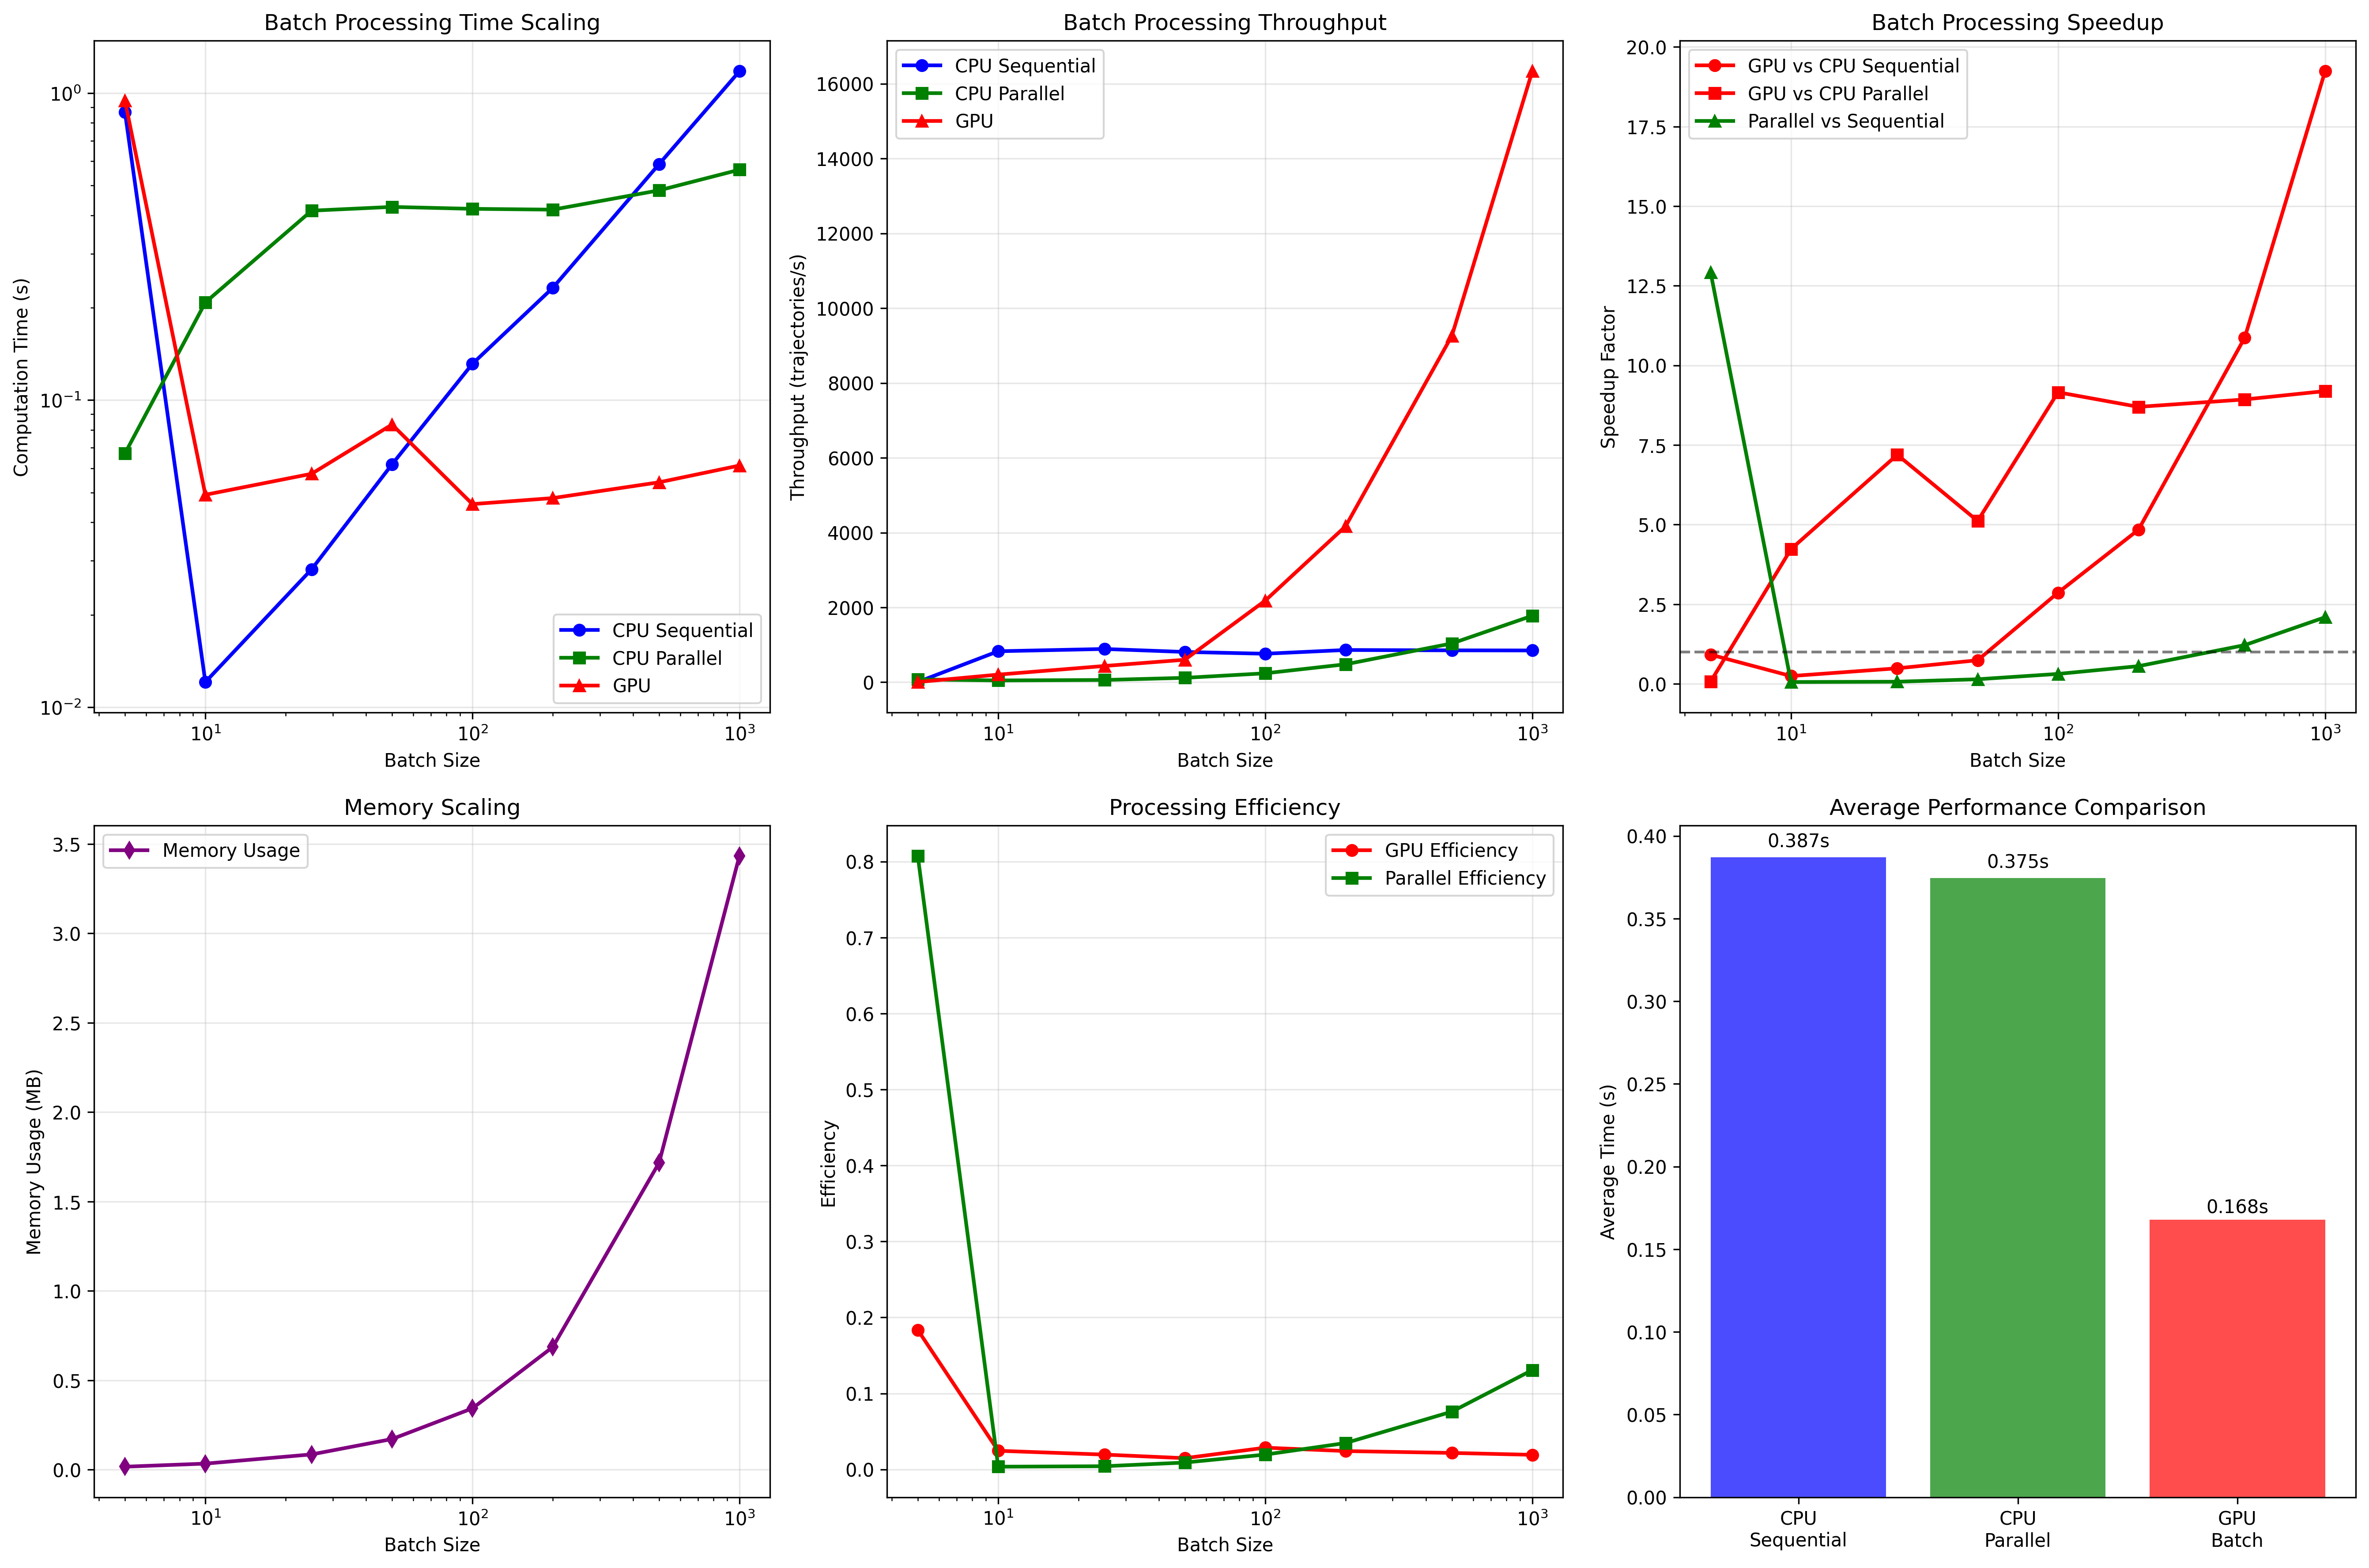
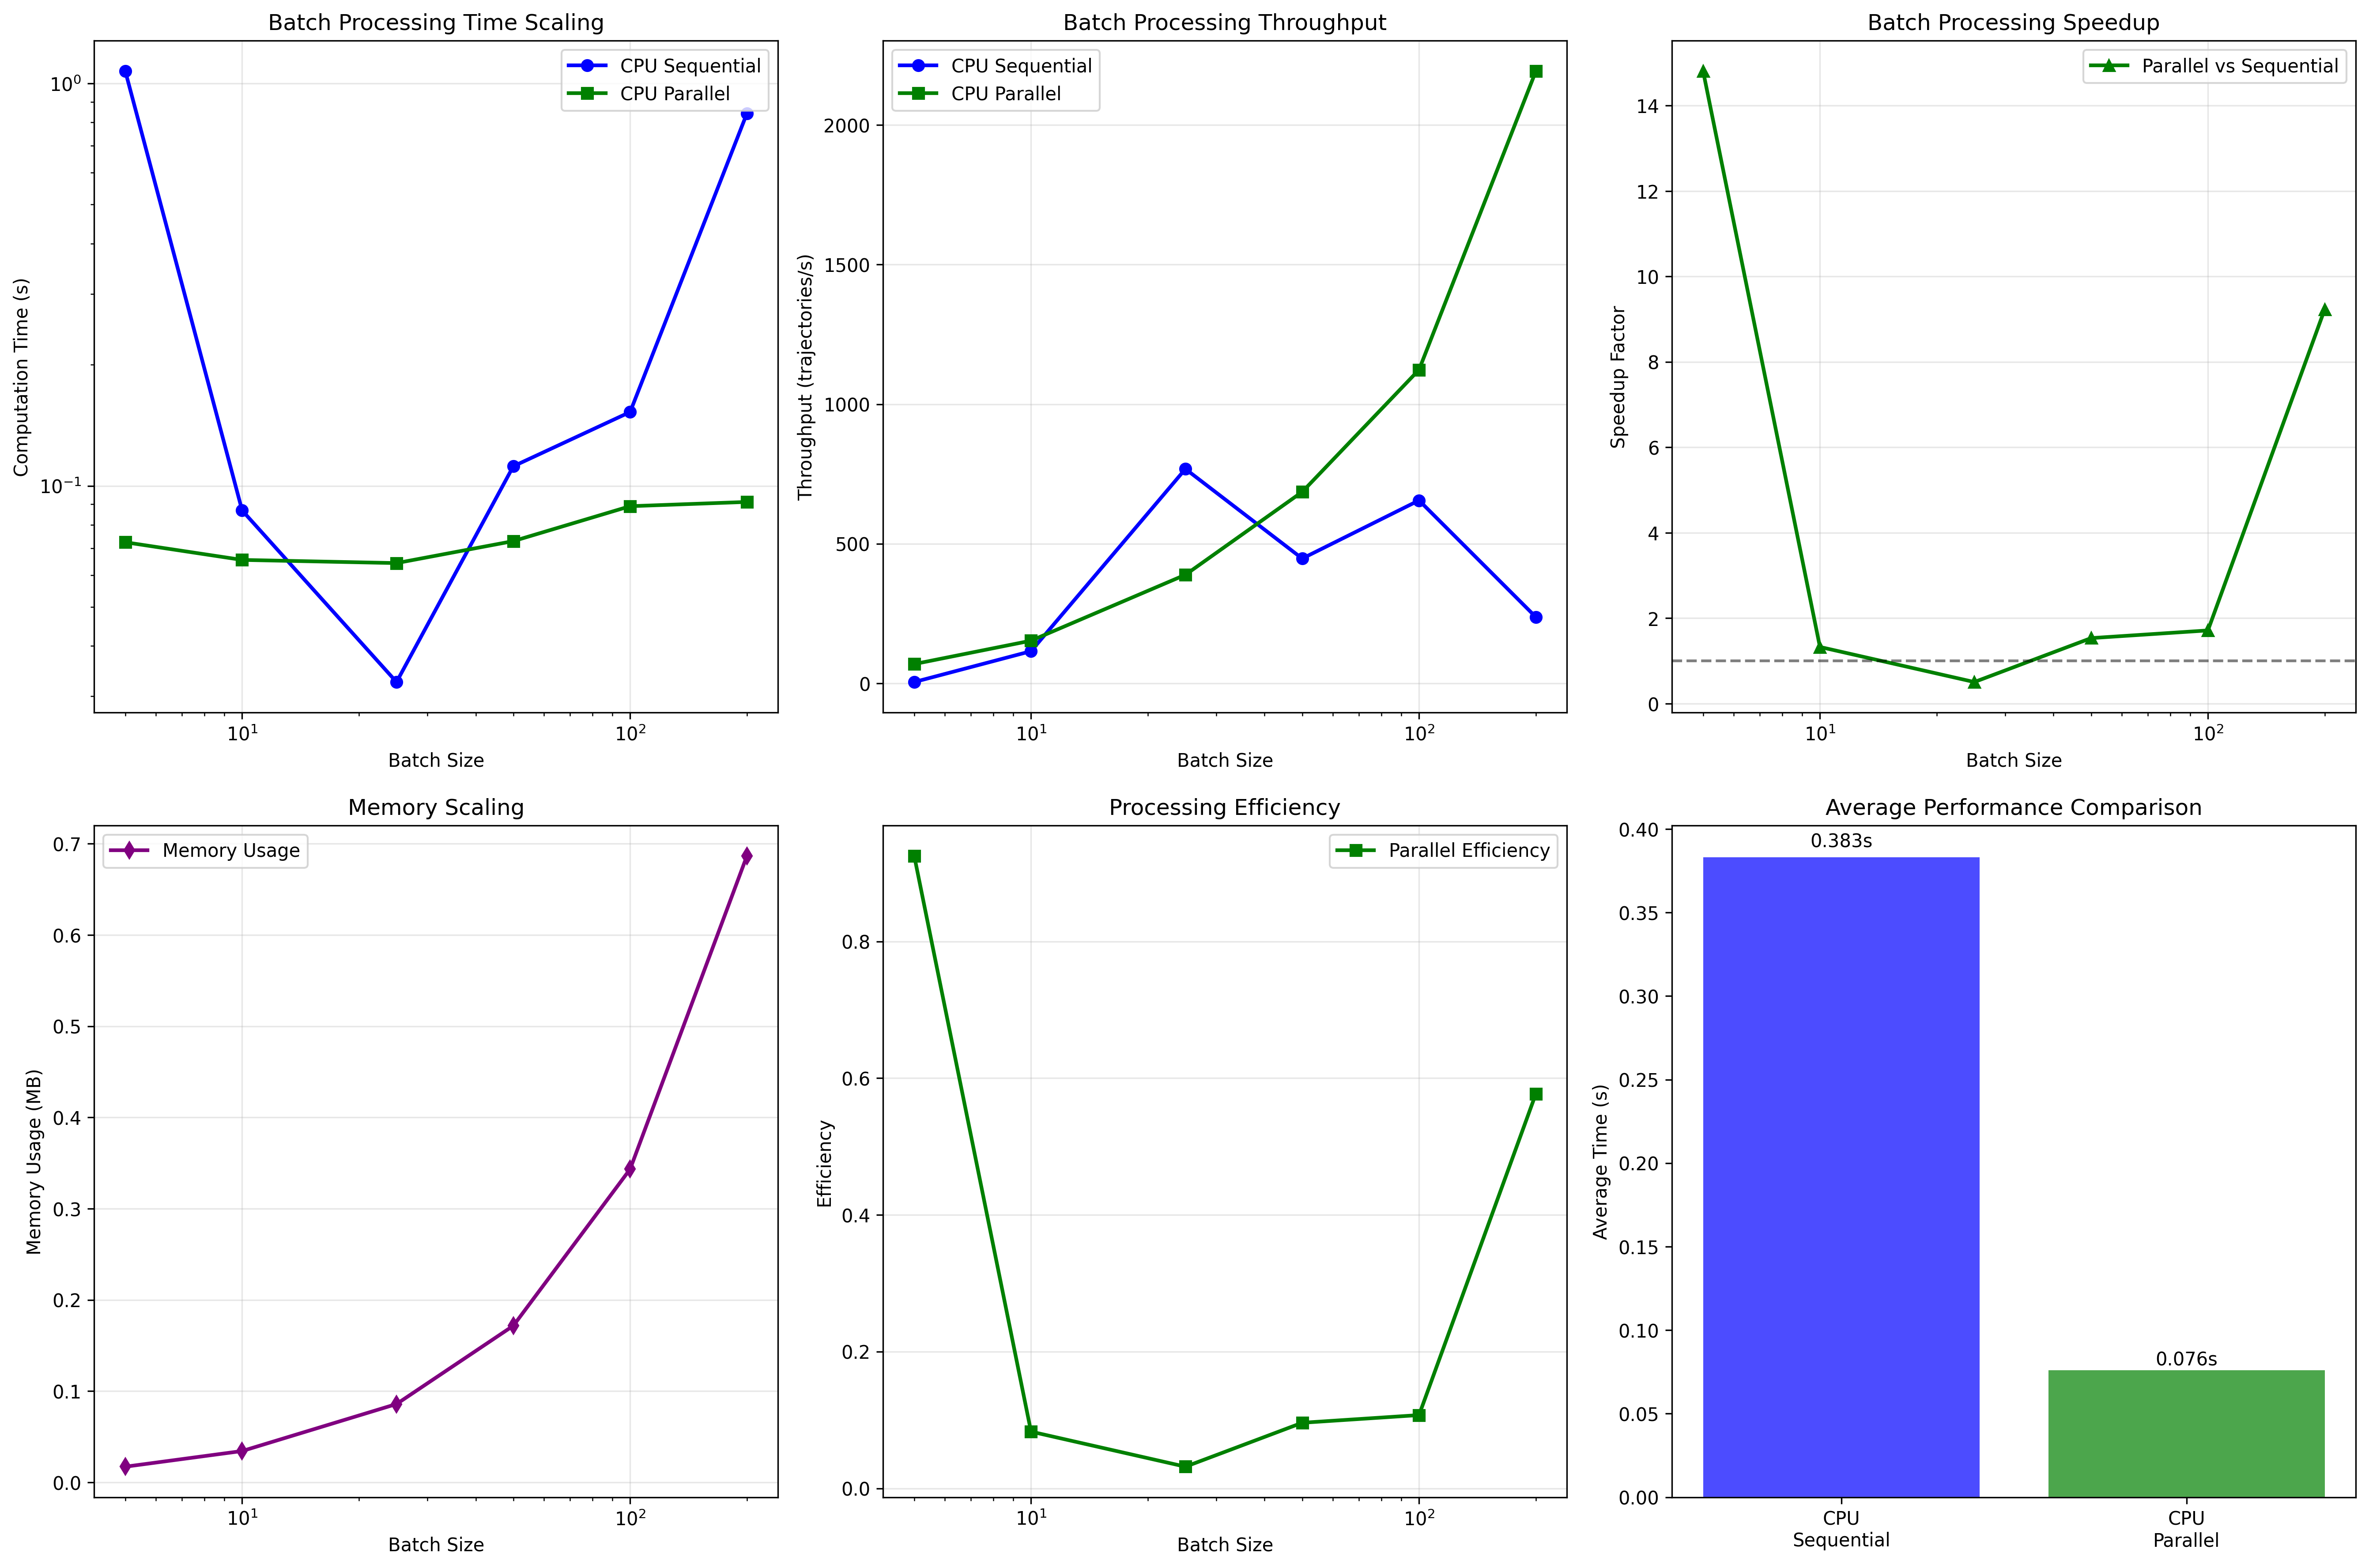
docs: changelog reconciliation, examples refresh, sphinx polish
CHANGELOG.md
  v1.3.2 status block updated to reflect actual completion state
  (functional fixes done; documentation/release ritual partially
  complete). The forward-dynamics-race note now explains the
  row-0-preserved + step-1-start convention. The packaging note
  clarifies that the urchin backend has been removed and that
  `setup.py` mirrors the lightweight install contract.

Examples/
  basic_examples/urdf_processing_basic_demo.py and
  visualization_basic_demo.py: updated to import from the new
  ManipulaPy_data/universal_robots/ur5 layout, replacing the older
  ManipulaPy_data/ur5 import.
  advanced_examples/*.png and batch_processing_analysis_report.txt:
  regenerated from the latest run with the v1.3.2 kernel fixes
  applied (smaller batch_scaling_analysis.png, refreshed numbers
  in the report).

README.md, Examples/README.md, docs/create_index_with_tabs.sh,
docs/requirements.txt
  Minor polish — version refs, link adjustments, requirements floor
  updates aligned with the v1.3.2 packaging contract.

docs/source/
  conf.py: small mock-list adjustment for headless docs builds.
  index.rst: Quick Start examples now reference the
  universal_robots/ur5 layout.
  getting_started/index.rst, tutorials/Dynamics.rst,
  user_guide/CUDA_Kernels.rst, user_guide/Simulation.rst: snippet
  cleanups (consistent import paths, callouts where install extras
  are required).

diff --git a/Examples/basic_examples/visualization_basic_demo.py b/Examples/basic_examples/visualization_basic_demo.py
@@ -176,7 +176,7 @@ def create_visualization_urdf():
 
 def demonstrate_robot_visualization(urdf_processor):
     """
-    Demonstrate basic robot model visualization using ManipulaPy and urchin.
+    Demonstrate basic robot model visualization using ManipulaPy.
     
     Args:
         urdf_processor (URDFToSerialManipulator): The ManipulaPy URDF processor instance
@@ -192,7 +192,7 @@ def demonstrate_robot_visualization(urdf_processor):
     
     try:
         print(f"\n🖼️  Attempting robot visualization...")
-        print(f"   Note: This will open a 3D visualization window using urchin")
+        print(f"   Note: This will open a 3D visualization window")
         print(f"   Press 'q' in the visualization window to close it")
         
         # Demonstrate the visualize_robot method
@@ -1231,7 +1231,7 @@ def main():
         print("   • complete_robot_analysis.png - Comprehensive summary")
         print()
         print("💡 Key Visualization Features Demonstrated:")
-        print("   • Robot model 3D visualization (urchin integration)")
+        print("   • Robot model 3D visualization")
         print("   • Trajectory animation with multiple formats")
         print("   • Workspace analysis and plotting")
         print("   • Manipulability ellipsoid analysis")

diff --git a/Examples/basic_examples/urdf_processing_basic_demo.py b/Examples/basic_examples/urdf_processing_basic_demo.py
@@ -448,7 +448,7 @@ def test_manipulapy_visualization_support(urdf_processor):
     try:
         # Test visualization method (note: won't actually display in headless mode)
         print(f"🖼️  Visualization Methods:")
-        print(f"   • visualize_robot(): Uses urchin.robot.show()")
+        print(f"   • visualize_robot(): Uses ManipulaPy's native URDF model")
         print(f"   • visualize_trajectory(): Supports numpy arrays and dictionaries")
         
         # Create a sample trajectory for testing format conversion
@@ -550,7 +550,7 @@ def main():
         print("=" * 60)
         print("🎉 All ManipulaPy features tested successfully!")
         print("💡 Key ManipulaPy Features Demonstrated:")
-        print("   • URDF loading with urchin integration")
+        print("   • Native URDF loading")
         print("   • Automatic screw axis computation")
         print("   • PyBullet joint limits extraction")
         print("   • SerialManipulator object creation")

diff --git a/docs/source/conf.py b/docs/source/conf.py
@@ -20,7 +20,7 @@ MOCK_MODULES = [
     "pycuda", "pycuda.driver", "pycuda.autoinit", "tensorflow",
     
     # Robotics / Simulation
-    "pybullet", "pybullet_data", "urchin", "urchin.urdf",
+    "pybullet", "pybullet_data",
     
     # Computer Vision
     "cv2", "ultralytics", "opencv-python",

diff --git a/CHANGELOG.md b/CHANGELOG.md
@@ -8,10 +8,12 @@ and this project adheres to [Semantic Versioning](https://semver.org/spec/v2.0.0
 ## [1.3.2] — 2026-05-10
 
 > **Status:** Functional fix tasks 1–48 are complete on
-> `release/v1.3.2-fix-patch`. Task 49 documentation sync is in progress
-> (this changelog has been reconciled); Task 50 release ritual remains:
-> bump `pyproject.toml` and `ManipulaPy.__version__`, update `STATUS.md`,
-> tag, and publish after final verification.
+> `release/v1.3.2-fix-patch`. Task 49 documentation sync is partially
+> complete: this changelog has been reconciled, while
+> ARCHITECTURE/CONTRIBUTING/RST docs and docs-build verification remain.
+> Task 50 is also partially complete: `pyproject.toml`,
+> `ManipulaPy.__version__`, `setup.py`, and this changelog are synced to
+> `1.3.2`; `STATUS.md`, final verification, tag, PR, and publish remain.
 >
 > **Summary:** Comprehensive stability and correctness patch addressing bugs
 > across utilities, dynamics, kinematics, path planning, control, singularity
@@ -344,7 +346,9 @@ and this project adheres to [Semantic Versioning](https://semver.org/spec/v2.0.0
   `t_idx` instead of reading `thetamat[t_idx − 1]` from rows that
   parallel threads at lower `t_idx` may not have written yet. Cost
   is `O(t_idx · intRes)` per thread now, but correctness no longer
-  depends on warp scheduling.
+  depends on warp scheduling. The kernel now preserves row 0 as the
+  initial state and starts per-thread integration at step 1, matching
+  the CPU trajectory path.
 - **`fused_potential_gradient_kernel`** repulsive gradient sign
   corrected. The kernel had dropped the leading minus from
   `∇U_rep = (1/d − 1/d₀)(−1/d³)(q − q_obs)`, so `−∇U` (the force
@@ -379,7 +383,7 @@ and this project adheres to [Semantic Versioning](https://semver.org/spec/v2.0.0
 - **`perception.py` sklearn import guarded** so the module imports
   without scikit-learn; `cluster_obstacles` raises a clear
   `ImportError` with install hint when invoked without `[ml]`.
-- **Python 3.12 classifier** added to `pyproject.toml`. 3.13 deferred
+- **Python 3.12 classifier and CI matrix entry** added. 3.13 deferred
   pending CI verification.
 - **PEP 561 `py.typed` marker** ships in the wheel so downstream type
   checkers (mypy, pyright, pylance) honor inline type hints.
@@ -388,10 +392,10 @@ and this project adheres to [Semantic Versioning](https://semver.org/spec/v2.0.0
   in the PyPI wheel. Anyone hitting visualization paths on a PyPI
   install gets per-mesh "not found" warnings rather than silent
   placeholder geometry with no diagnostic.
-- **`setup.py`** version field synced to `1.3.2` (was stale at
-  `1.2.0`). `pyproject.toml` is canonical for `pip` and
-  `python -m build`; setup.py duplication is kept synced for any
-  legacy tooling that still parses it.
+- **`setup.py`** synced with the v1.3.2 packaging contract: version
+  matches `pyproject.toml`, core `install_requires` stays lightweight,
+  heavy dependencies live in extras, and package-data globs no longer
+  contradict the URDF-only wheel decision.
 
 ### Fixed — test infrastructure
 - **`tests/conftest.py`** torch mock now exposes `_MockTensor` as a

diff --git a/README.md b/README.md
@@ -3,7 +3,7 @@
 <div align="center">
 
 [![PyPI](https://img.shields.io/pypi/v/ManipulaPy)](https://pypi.org/project/ManipulaPy/)
-[![Python](https://img.shields.io/badge/python-3.8%2B-blue.svg)](https://www.python.org/downloads/)
+[![Python](https://img.shields.io/badge/python-3.9%2B-blue.svg)](https://www.python.org/downloads/)
 [![License](https://img.shields.io/badge/License-AGPL%20v3-blue.svg)](https://www.gnu.org/licenses/agpl-3.0)
 ![CI](https://github.com/boelnasr/ManipulaPy/actions/workflows/test.yml/badge.svg?branch=main)
 ![Test Status](https://img.shields.io/badge/tests-passing-brightgreen)
@@ -23,7 +23,7 @@
 ManipulaPy is a modern, comprehensive framework that bridges the gap between basic robotics libraries and sophisticated research tools. It provides seamless integration of kinematics, dynamics, control, and perception systems with optional CUDA acceleration for real-time applications.
 
 ### What's New in 1.3.2
-- **Modular optional extras**: default `pip install ManipulaPy` is now lightweight (numpy, scipy, matplotlib, numba, pillow). Add `[simulation]` for PyBullet, `[urdf]` for urchin/trimesh, `[vision]` for OpenCV/ultralytics/torch, `[ml]` for scikit-learn, `[cuda]` for CuPy, or `[all]` for everything
+- **Modular optional extras**: default `pip install ManipulaPy` is now lightweight (numpy 2.x, scipy, matplotlib, numba, pillow). Add `[simulation]` for PyBullet, `[urdf]` for native URDF mesh loading with trimesh, `[vision]` for OpenCV/ultralytics/torch, `[ml]` for scikit-learn, `[cuda]` for CuPy, or `[all]` for everything
 - **Native NumPy 2.0-compatible URDF parser** (`ManipulaPy.urdf.URDF`) with `PackageResolver` supporting `package://`, `file://`, ROS package discovery, and explicit-mapping precedence
 - **PEP 561 `py.typed` marker** ships in the wheel — mypy/pyright now treat ManipulaPy as a typed package
 - **Python 3.12 support** added to the CI matrix and PyPI classifiers
@@ -88,9 +88,9 @@ ManipulaPy automatically enables features based on available dependencies. Here'
 
 | Feature | CPU Performance | Dependencies | Notes |
 |---------|----------------|--------------|-------|
-| **Kinematics** | Excellent | numpy, scipy | Forward/inverse kinematics, Jacobians |
-| **Basic Dynamics** | Good | numpy, scipy | Mass matrix, Coriolis, gravity |
-| **Control Systems** | Excellent | numpy, scipy | PID, computed torque, adaptive |
+| **Kinematics** | Excellent | numpy 2.x, scipy | Forward/inverse kinematics, Jacobians |
+| **Basic Dynamics** | Good | numpy 2.x, scipy | Mass matrix, Coriolis, gravity |
+| **Control Systems** | Excellent | numpy 2.x, scipy | PID, computed torque, adaptive |
 | **URDF Processing** | Fast | numpy only (native) | Robot model conversion, NumPy 2.0+ |
 | **Small Trajectories** | Good | numba | N < 1000 points, auto-optimized |
 
@@ -1049,10 +1049,10 @@ If you use ManipulaPy in your research, please cite:
 ### Dependencies
 
 All dependencies are AGPL-3.0 compatible:
-- **Core**: `numpy`, `scipy`, `matplotlib` (BSD)
+- **Core**: `numpy>=2.0`, `scipy`, `matplotlib` (BSD)
 - **Vision**: `opencv-python` (Apache 2.0), `ultralytics` (AGPL-3.0)
 - **GPU**: `cupy` (MIT), `numba` (BSD)
-- **Simulation**: `pybullet` (Zlib), `urchin` (MIT)
+- **Simulation**: `pybullet` (Zlib)
 
 ---
 

diff --git a/docs/source/user_guide/Simulation.rst b/docs/source/user_guide/Simulation.rst
@@ -26,7 +26,7 @@ Before using the Simulation module, ensure you have the following dependencies:
 
 .. code-block:: bash
 
-   pip install ManipulaPy[simulation] pybullet>=3.2.5 matplotlib>=3.5 numpy>=1.21
+   pip install ManipulaPy[simulation] pybullet>=3.2.5 matplotlib>=3.9 "numpy>=2.0,<3.0"
 
 **GPU Acceleration (Optional but Recommended)**
 
@@ -38,9 +38,8 @@ Before using the Simulation module, ensure you have the following dependencies:
 
 **URDF Processing**
 
-.. code-block:: bash
-
-   pip install urchin>=0.0.27
+The native URDF parser is included with ManipulaPy. Install
+``ManipulaPy[urdf]`` only when you need optional ``trimesh`` mesh loading.
 
 Verification
 ~~~~~~~~~~~~

diff --git a/docs/source/getting_started/index.rst b/docs/source/getting_started/index.rst
@@ -34,8 +34,8 @@ The fastest way to get started:
    As of v1.3.2, the default install is intentionally lightweight — it
    pulls only the core numerical/plotting stack (NumPy, SciPy, matplotlib,
    numba, pillow). Heavier or platform-specific dependencies such as
-   ``pybullet``, ``opencv-python``, ``torch``, ``scikit-learn``, ``trimesh``,
-   and ``urchin`` now live in optional extras (see below) so that the base
+   ``pybullet``, ``opencv-python``, ``torch``, ``scikit-learn``, and ``trimesh``
+   now live in optional extras (see below) so that the base
    install succeeds on minimal images and platforms without prebuilt wheels
    (e.g., Apple Silicon).
 
@@ -68,7 +68,7 @@ If you want to contribute or modify the library:
 .. note::
    **System Requirements:**
 
-   - Python 3.8 or higher
+   - Python 3.9 or higher
    - Core (auto-installed): NumPy, SciPy, matplotlib, numba, pillow
    - Optional extras (install on demand):
 

diff --git a/docs/source/index.rst b/docs/source/index.rst
@@ -19,7 +19,7 @@ A modern, GPU-accelerated Python toolbox for **robot kinematics, dynamics, traje
                <img src="https://img.shields.io/pypi/v/manipulapy?style=for-the-badge&logo=pypi&logoColor=white&label=PyPI&color=blue" alt="PyPI Version">
             </a>
             <a href="https://www.python.org/downloads/">
-               <img src="https://img.shields.io/badge/python-3.8%2B-blue.svg?style=for-the-badge&logo=python&logoColor=white" alt="Python Versions">
+               <img src="https://img.shields.io/badge/python-3.9%2B-blue.svg?style=for-the-badge&logo=python&logoColor=white" alt="Python Versions">
             </a>
             <a href="https://joss.theoj.org/papers/e0e68c2dcd8ac9dfc1354c7ee37eb7aa">
                <img src="https://joss.theoj.org/papers/e0e68c2dcd8ac9dfc1354c7ee37eb7aa/status.svg?style=for-the-badge" alt="JOSS Paper">
@@ -431,7 +431,7 @@ Installation Options
    # Add PyBullet-based simulation
    pip install "manipulapy[simulation]"
 
-   # Add legacy URDF backend (urchin) and trimesh-based mesh loading
+   # Add trimesh-based mesh loading
    pip install "manipulapy[urdf]"
 
    # Add OpenCV / ultralytics / torch for vision and perception

diff --git a/docs/source/tutorials/Dynamics.rst b/docs/source/tutorials/Dynamics.rst
@@ -1,10 +1,10 @@
 Dynamics User Guide
 ===================
 
-This comprehensive guide covers robot dynamics computations in ManipulaPy, compatible with Python 3.8 through 3.12.
+This comprehensive guide covers robot dynamics computations in ManipulaPy, compatible with Python 3.9 through 3.12.
 
 .. note::
-   This guide is compatible with Python 3.8 through 3.12 and includes performance improvements that work across supported versions.
+   This guide is compatible with Python 3.9 through 3.12 and includes performance improvements that work across supported versions.
 
 Introduction to Robot Dynamics
 -------------------------------

diff --git a/Examples/README.md b/Examples/README.md
@@ -44,7 +44,7 @@ pip install ultralytics opencv-python
 pip install scikit-learn matplotlib seaborn
 
 # For simulation examples
-pip install pybullet urchin
+pip install pybullet
 ```
 
 ## 📚 Example Categories

diff --git a/docs/source/user_guide/CUDA_Kernels.rst b/docs/source/user_guide/CUDA_Kernels.rst
@@ -80,7 +80,7 @@ System Requirements
 
 - NVIDIA GPU drivers (latest recommended)
 - CUDA Toolkit 11.0+ or 12.0+
-- Python 3.8+
+- Python 3.9+
 
 Installation Options
 ~~~~~~~~~~~~~~~~~~~~~~~